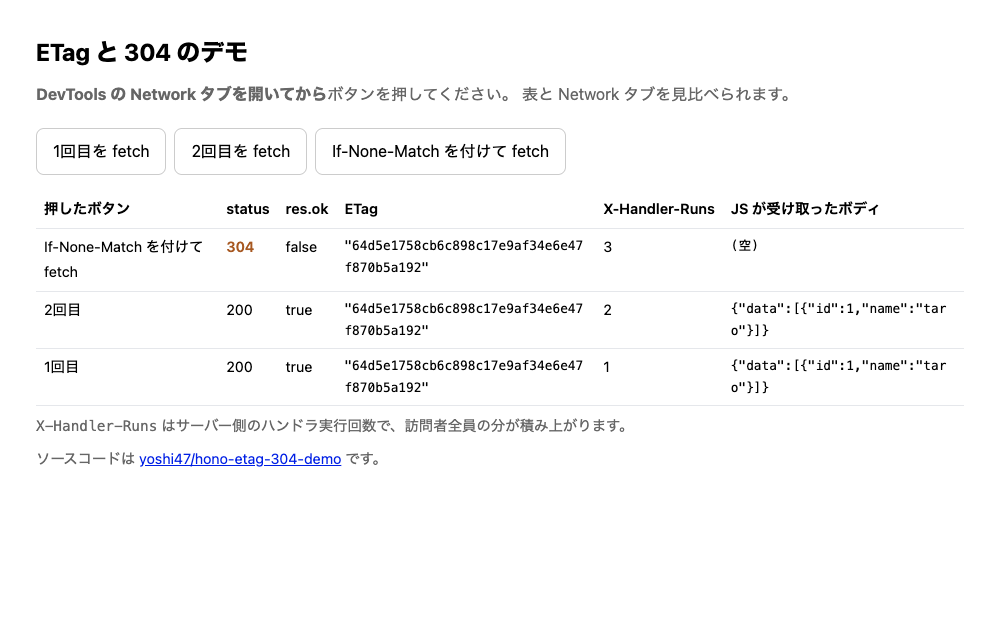
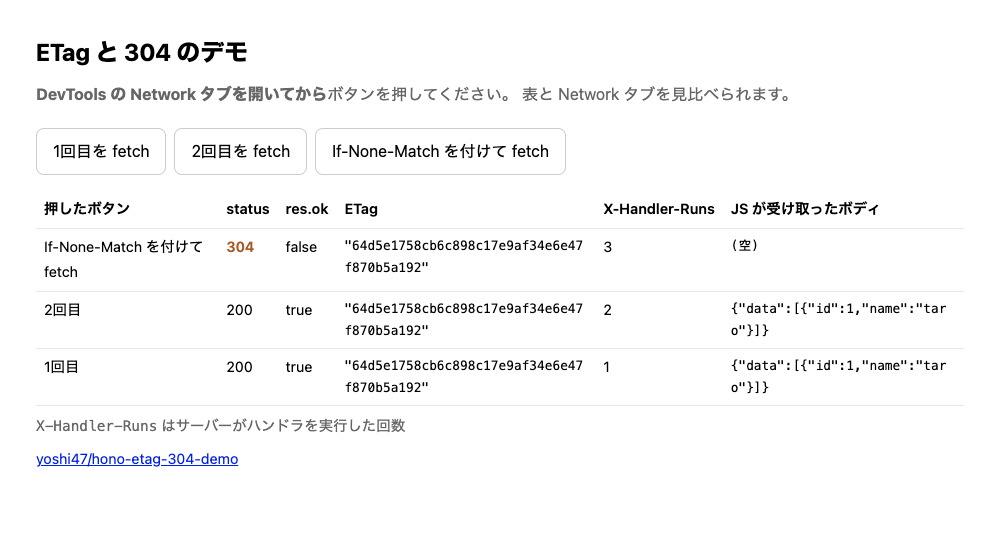
Turn the legend and the footer link into labels instead of sentences

diff --git a/src/page.js b/src/page.js
@@ -59,7 +59,7 @@ export const page = `<!doctype html>
   <tbody id="rows"></tbody>
 </table>
 <p class="hint">
-  <code>X-Handler-Runs</code> はサーバー側のハンドラ実行回数で、訪問者全員の分が積み上がります。
+  <code>X-Handler-Runs</code> はサーバーがハンドラを実行した回数
 </p>
 
 <script>
@@ -101,7 +101,7 @@ document.getElementById('manual').addEventListener('click', async function () {
 })
 </script>
 
-<p class="hint">ソースコードは <a href="https://github.com/yoshi47/hono-etag-304-demo">yoshi47/hono-etag-304-demo</a> です。</p>
+<p class="hint"><a href="https://github.com/yoshi47/hono-etag-304-demo">yoshi47/hono-etag-304-demo</a></p>
 </body>
 </html>
 `
